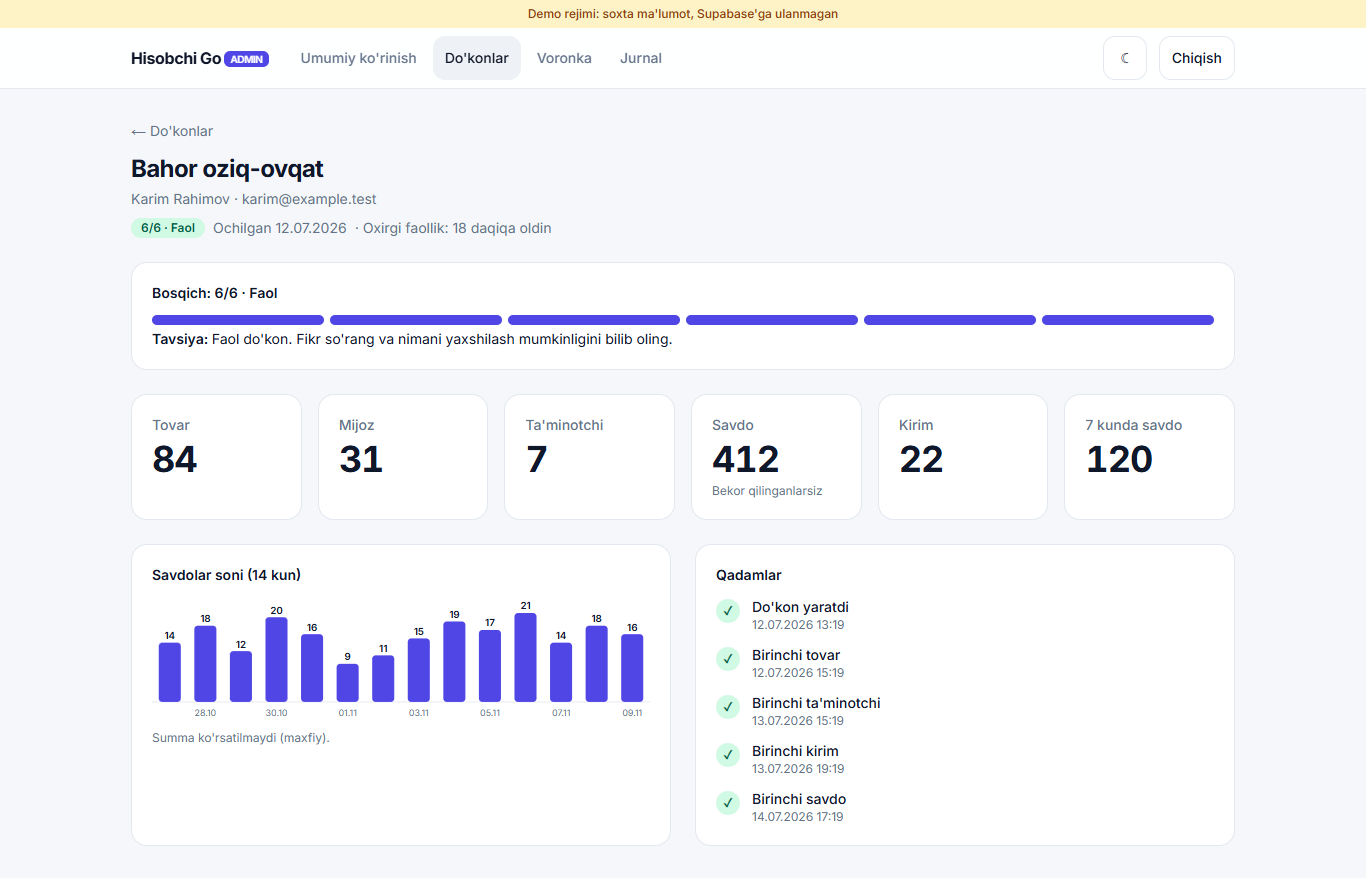
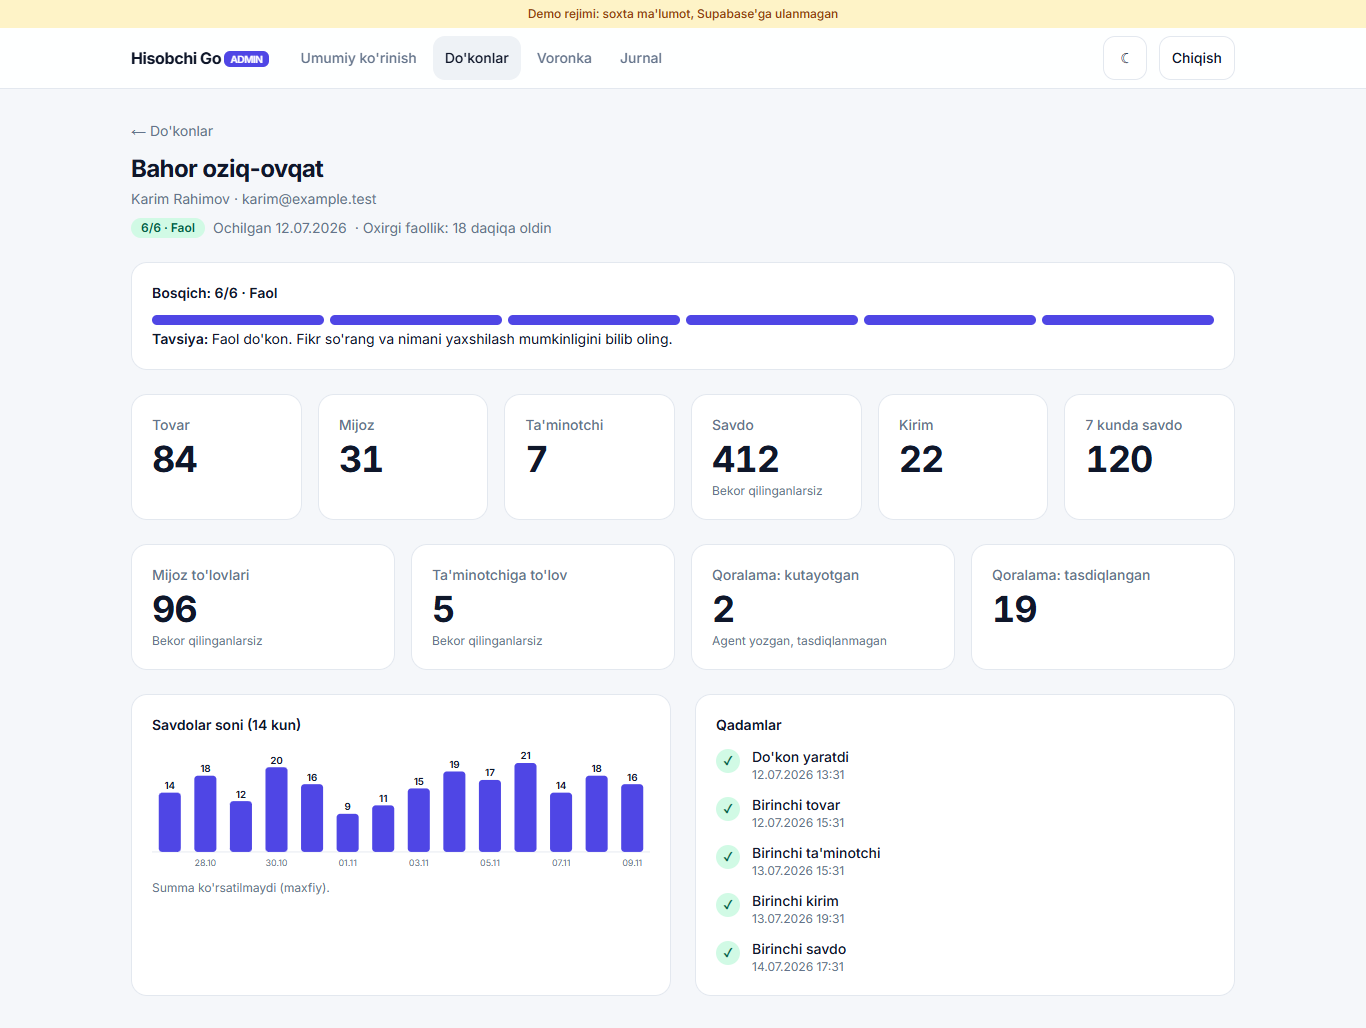
ADMIN 012: admin_shop_detail.activity (to'lov va qoralama sonlari), SQL test, do'kon sahifasida (#36)

diff --git a/apps/admin/src/lib/demo.ts b/apps/admin/src/lib/demo.ts
@@ -48,6 +48,10 @@ interface DemoShop {
   firstSupplierH: number | null;
   firstPurchaseH: number | null;
   firstSaleH: number | null;
+  payments: number;
+  supplierPayments: number;
+  draftsPending: number;
+  draftsAccepted: number;
 }
 
 export const DEMO_USERS = 8;
@@ -57,37 +61,37 @@ export const DEMO_SHOPS: DemoShop[] = [
     id: 'd0000000-0000-4000-8000-000000000001', name: 'Bahor oziq-ovqat', owner: 'Karim Rahimov', email: 'karim@example.test',
     createdDaysAgo: 120, lastActivityHoursAgo: 0.3, products: 84, customers: 31, suppliers: 7, sales: 412, purchases: 22,
     daily: [14, 18, 12, 20, 16, 9, 11, 15, 19, 17, 21, 14, 18, 16],
-    firstProductH: 2, firstSupplierH: 26, firstPurchaseH: 30, firstSaleH: 52,
+    firstProductH: 2, firstSupplierH: 26, firstPurchaseH: 30, firstSaleH: 52, payments: 96, supplierPayments: 5, draftsPending: 2, draftsAccepted: 19,
   },
   {
     id: 'd0000000-0000-4000-8000-000000000002', name: 'Dilshod ulgurji', owner: 'Dilshod Aliyev', email: 'dilshod@example.test',
     createdDaysAgo: 60, lastActivityHoursAgo: 5, products: 51, customers: 17, suppliers: 4, sales: 133, purchases: 8,
     daily: [4, 0, 6, 5, 3, 2, 0, 4, 3, 1, 5, 4, 2, 3],
-    firstProductH: 5, firstSupplierH: 70, firstPurchaseH: 96, firstSaleH: 120,
+    firstProductH: 5, firstSupplierH: 70, firstPurchaseH: 96, firstSaleH: 120, payments: 40, supplierPayments: 3, draftsPending: 0, draftsAccepted: 6,
   },
   {
     id: 'd0000000-0000-4000-8000-000000000003', name: 'Madina market', owner: 'Madina Karimova', email: 'madina@example.test',
     createdDaysAgo: 28, lastActivityHoursAgo: 24 * 9, products: 23, customers: 6, suppliers: 2, sales: 12, purchases: 1,
     daily: [2, 3, 1, 0, 2, 4, 0, 0, 0, 0, 0, 0, 0, 0],
-    firstProductH: 3, firstSupplierH: 30, firstPurchaseH: 50, firstSaleH: 200,
+    firstProductH: 3, firstSupplierH: 30, firstPurchaseH: 50, firstSaleH: 200, payments: 5, supplierPayments: 1, draftsPending: 1, draftsAccepted: 2,
   },
   {
     id: 'd0000000-0000-4000-8000-000000000004', name: 'Sardor savdo', owner: 'Sardor Yusupov', email: 'sardor@example.test',
     createdDaysAgo: 6, lastActivityHoursAgo: 48, products: 15, customers: 2, suppliers: 3, sales: 0, purchases: 2,
     daily: [0, 0, 0, 0, 0, 0, 0, 0, 0, 0, 0, 0, 0, 0],
-    firstProductH: 1, firstSupplierH: 20, firstPurchaseH: 44, firstSaleH: null,
+    firstProductH: 1, firstSupplierH: 20, firstPurchaseH: 44, firstSaleH: null, payments: 0, supplierPayments: 2, draftsPending: 0, draftsAccepted: 0,
   },
   {
     id: 'd0000000-0000-4000-8000-000000000005', name: 'Nilufar kiyim', owner: 'Nilufar Saidova', email: 'nilufar@example.test',
     createdDaysAgo: 12, lastActivityHoursAgo: 24 * 11, products: 9, customers: 0, suppliers: 1, sales: 0, purchases: 0,
     daily: [0, 0, 0, 0, 0, 0, 0, 0, 0, 0, 0, 0, 0, 0],
-    firstProductH: 4, firstSupplierH: 8, firstPurchaseH: null, firstSaleH: null,
+    firstProductH: 4, firstSupplierH: 8, firstPurchaseH: null, firstSaleH: null, payments: 0, supplierPayments: 0, draftsPending: 0, draftsAccepted: 0,
   },
   {
     id: 'd0000000-0000-4000-8000-000000000006', name: "Yangi do'kon", owner: 'Olim Hasanov', email: 'olim@example.test',
     createdDaysAgo: 1, lastActivityHoursAgo: 22, products: 0, customers: 0, suppliers: 0, sales: 0, purchases: 0,
     daily: [0, 0, 0, 0, 0, 0, 0, 0, 0, 0, 0, 0, 0, 0],
-    firstProductH: null, firstSupplierH: null, firstPurchaseH: null, firstSaleH: null,
+    firstProductH: null, firstSupplierH: null, firstPurchaseH: null, firstSaleH: null, payments: 0, supplierPayments: 0, draftsPending: 0, draftsAccepted: 0,
   },
 ];
 
@@ -200,6 +204,7 @@ export function demoShopDetail(now: Date, id: string): AdminShopDetail {
     last_activity_at: row.last_activity_at,
     is_stale: row.is_stale,
     stage: row.stage,
+    activity: { payments: s.payments, supplier_payments: s.supplierPayments, drafts_pending: s.draftsPending, drafts_accepted: s.draftsAccepted },
     counts: { products: s.products, customers: s.customers, suppliers: s.suppliers, sales: s.sales, purchases: s.purchases, sales_7d: f.sales7d },
     daily_sales: keys.map((day, i) => ({ day, sales: s.daily[i] ?? 0 })),
     steps,

diff --git a/apps/admin/src/app/(panel)/shops/[id]/page.tsx b/apps/admin/src/app/(panel)/shops/[id]/page.tsx
@@ -64,6 +64,15 @@ export default function ShopDetailPage() {
             <StatCard label="7 kunda savdo" value={formatCount(data.counts.sales_7d)} />
           </div>
 
+          {data.activity && (
+            <div className="grid grid-cols-2 gap-3 lg:grid-cols-4 sm:gap-4" data-testid="activity">
+              <StatCard label="Mijoz to'lovlari" value={formatCount(data.activity.payments)} hint="Bekor qilinganlarsiz" />
+              <StatCard label="Ta'minotchiga to'lov" value={formatCount(data.activity.supplier_payments)} hint="Bekor qilinganlarsiz" />
+              <StatCard label="Qoralama: kutayotgan" value={formatCount(data.activity.drafts_pending)} hint="Agent yozgan, tasdiqlanmagan" />
+              <StatCard label="Qoralama: tasdiqlangan" value={formatCount(data.activity.drafts_accepted)} />
+            </div>
+          )}
+
           <div className="grid gap-4 lg:grid-cols-2 sm:gap-6">
             <Card title="Savdolar soni (14 kun)">
               <BarChart color="var(--series-1)" unit="savdo" points={data.daily_sales.map((d) => ({ label: shortDay(d.day), value: d.sales }))} />

diff --git a/apps/admin/src/lib/types.ts b/apps/admin/src/lib/types.ts
@@ -64,6 +64,11 @@ export interface AdminShopDetail {
   is_stale: boolean;
   stage: Stage;
   counts: { products: number; customers: number; suppliers: number; sales: number; purchases: number; sales_7d: number };
+  /**
+   * To'lov va qoralama SONLARI (migratsiya 012). 012 qo'llanmaguncha server bu kalitni qaytarmaydi, shuning uchun ixtiyoriy.
+   * payments = mijoz to'lovlari, supplier_payments = ta'minotchiga to'lovlar (bekor qilinganlarsiz); drafts_* = agent qoralamalari.
+   */
+  activity?: { payments: number; supplier_payments: number; drafts_pending: number; drafts_accepted: number };
   daily_sales: { day: string; sales: number }[];
   /** Har qadamning birinchi bajarilgan vaqti; bajarilmagan bo'lsa null */
   steps: { key: StepKey; at: string | null }[];

diff --git a/apps/admin/__tests__/links.test.ts b/apps/admin/__tests__/links.test.ts
@@ -43,3 +43,14 @@ describe('recommendation', () => {
     expect(recommendation(3, false)).not.toContain('Faolsiz');
   });
 });
+
+describe('do\'kon faoliyati (012): demo', () => {
+  it("faqat to'rt son; sonlar manfiy emas", async () => {
+    const { demoShopDetail } = await import('@/lib/demo');
+    for (const s of DEMO_SHOPS) {
+      const a = demoShopDetail(NOW, s.id).activity!;
+      expect(Object.keys(a).sort()).toEqual(['drafts_accepted', 'drafts_pending', 'payments', 'supplier_payments']);
+      for (const n of Object.values(a)) expect(Number.isInteger(n) && n >= 0).toBe(true);
+    }
+  });
+});

diff --git a/docs/QARORLAR.md b/docs/QARORLAR.md
@@ -107,3 +107,4 @@ Har qaror: sana, nima, nega. Yangi qaror pastga qo'shiladi.
 | 09.11.2026 | **Admin PR'lari stacked:** A2 (ilova) `main` dan emas, A1 (011 migratsiya + hujjat) shoxidan ochildi, A3 va A4 ham oldingisidan. Sabab: `apps/admin` va `docs/ADMIN.md` faqat oldingi bosqichda mavjud, `main` dan ochilsa bir xil hujjat fayllarida to'qnashuv va ishlamaydigan kod bo'lardi. Har PR'ning bazasi oldingi shox; oldingisi merge bo'lgach PR bazasi `main` ga o'zgartiriladi (GitHub avtomatik qiladi) | Bosqichlar bir-biriga bog'liq (TZ'dagi «stacked yo'q» qoidasi bu holatda bajarib bo'lmaydi) |
 
 | 09.11.2026 | **Admin: bosiladigan joylar (fix/admin-bosish):** do'konlar jadvalida butun qator bosiladi (`tr` + Enter, nom havolasi saqlangan); Umumiy ko'rinish kartalari havolali. **Alohida «Foydalanuvchilar» sahifasi yo'q**: kartochka `/shops` ga (egalari bilan ro'yxat) olib boradi, chunki admin foydalanuvchining emailini faqat do'kon egasi sifatida ko'radi va do'konsiz foydalanuvchi ro'yxati maxfiylik uchun ko'rsatilmaydi. `/shops?faol=7` filtri **klientda** (oxirgi faollik bo'yicha tartiblangan 200 qator oynasida); `admin_shops` o'zgartirilmadi. Do'kon sahifasiga bosqich chizig'i va tavsiya qo'shildi (mavjud ma'lumotdan). To'lov va qoralama sonlari uchun `admin_shop_detail` kengaytirilishi kerak (migratsiya 012): asoschiga aytildi, qo'llanmaydi | Asoschi admin saytda sinab ko'rdi |
+| 09.11.2026 | **Migratsiya 012 (admin_shop_detail.activity):** to'lov va qoralama sonlari yangi yuqori daraja kalit `activity` ostida (eski `counts` va boshqa kalitlar o'zgarmadi). Mijoz va ta'minotchi to'lovlari alohida; bekor qilinganlar sanalmaydi; qoralamalardan faqat `draft` (kutayotgan) va `accepted`. UI kalitni ixtiyoriy deb o'qiydi: 012 qo'llanmagan bazada sahifa buzilmaydi | Asoschi talabi (faqat sonlar) |

diff --git a/docs/ADMIN.md b/docs/ADMIN.md
@@ -33,7 +33,7 @@ Bu `supabase/tests/80_platform_admin.test.sql` da tekshiriladi (natija kalitlari
 | `is_platform_admin()` | boolean |
 | `admin_overview(p_days default 14)` | `shops, users, new_shops_today/7d/30d, sales_today, active_shops_7d, daily[{day,new_shops,sales}]` |
 | `admin_shops(search, limit, offset, sort)` | `{total, rows[{id,name,owner_name,owner_email,created_at,last_activity_at,is_stale,products,customers,suppliers,sales,purchases,stage}]}`; `sort` = `activity` \| `new` |
-| `admin_shop_detail(shop_id)` | `{...do'kon, counts{...,sales_7d}, daily_sales[14 kun], steps[{key,at}]}` |
+| `admin_shop_detail(shop_id)` | `{...do'kon, counts{...,sales_7d}, activity{payments,supplier_payments,drafts_pending,drafts_accepted} (012), daily_sales[14 kun], steps[{key,at}]}` |
 | `admin_funnel()` | `{users, shops, users_without_shop, steps[{key,stage,count,pct_of_registered,pct_of_prev}], stuck{"1".."5": [{id,name}]}}` |
 | `admin_my_audit(limit)` | adminning o'z harakatlari (oxirgi 100) |
 | `admin_shop_stage(shop_id)` | int (1..6) |
@@ -90,3 +90,6 @@ Ma'lumot faqat `admin_*` RPC orqali (`src/lib/api.ts`); jadvallarga to'g'ridan-t
 3. Supabase → Auth → URL Configuration: admin domenini ruxsat ro'yxatiga qo'shing.
 4. `NEXT_PUBLIC_ADMIN_DEMO` production'da e'tiborga olinmaydi (demo orqali kirib bo'lmaydi).
 
+## Migratsiya 012
+
+`012_admin_shop_activity.sql`: faqat `admin_shop_detail` qayta yoziladi (imzo o'sha, eski maydonlar o'zgarmagan), yangi kalit `activity`: to'lov sonlari (bekor qilinganlarsiz) va agent qoralamalari (`draft` = kutayotgan, `accepted` = tasdiqlangan; rad etilganlar sanalmaydi). Faqat sonlar. 012 qo'llanmaguncha ilova do'kon sahifasida bu to'rt kartani ko'rsatmaydi (kalit ixtiyoriy).
